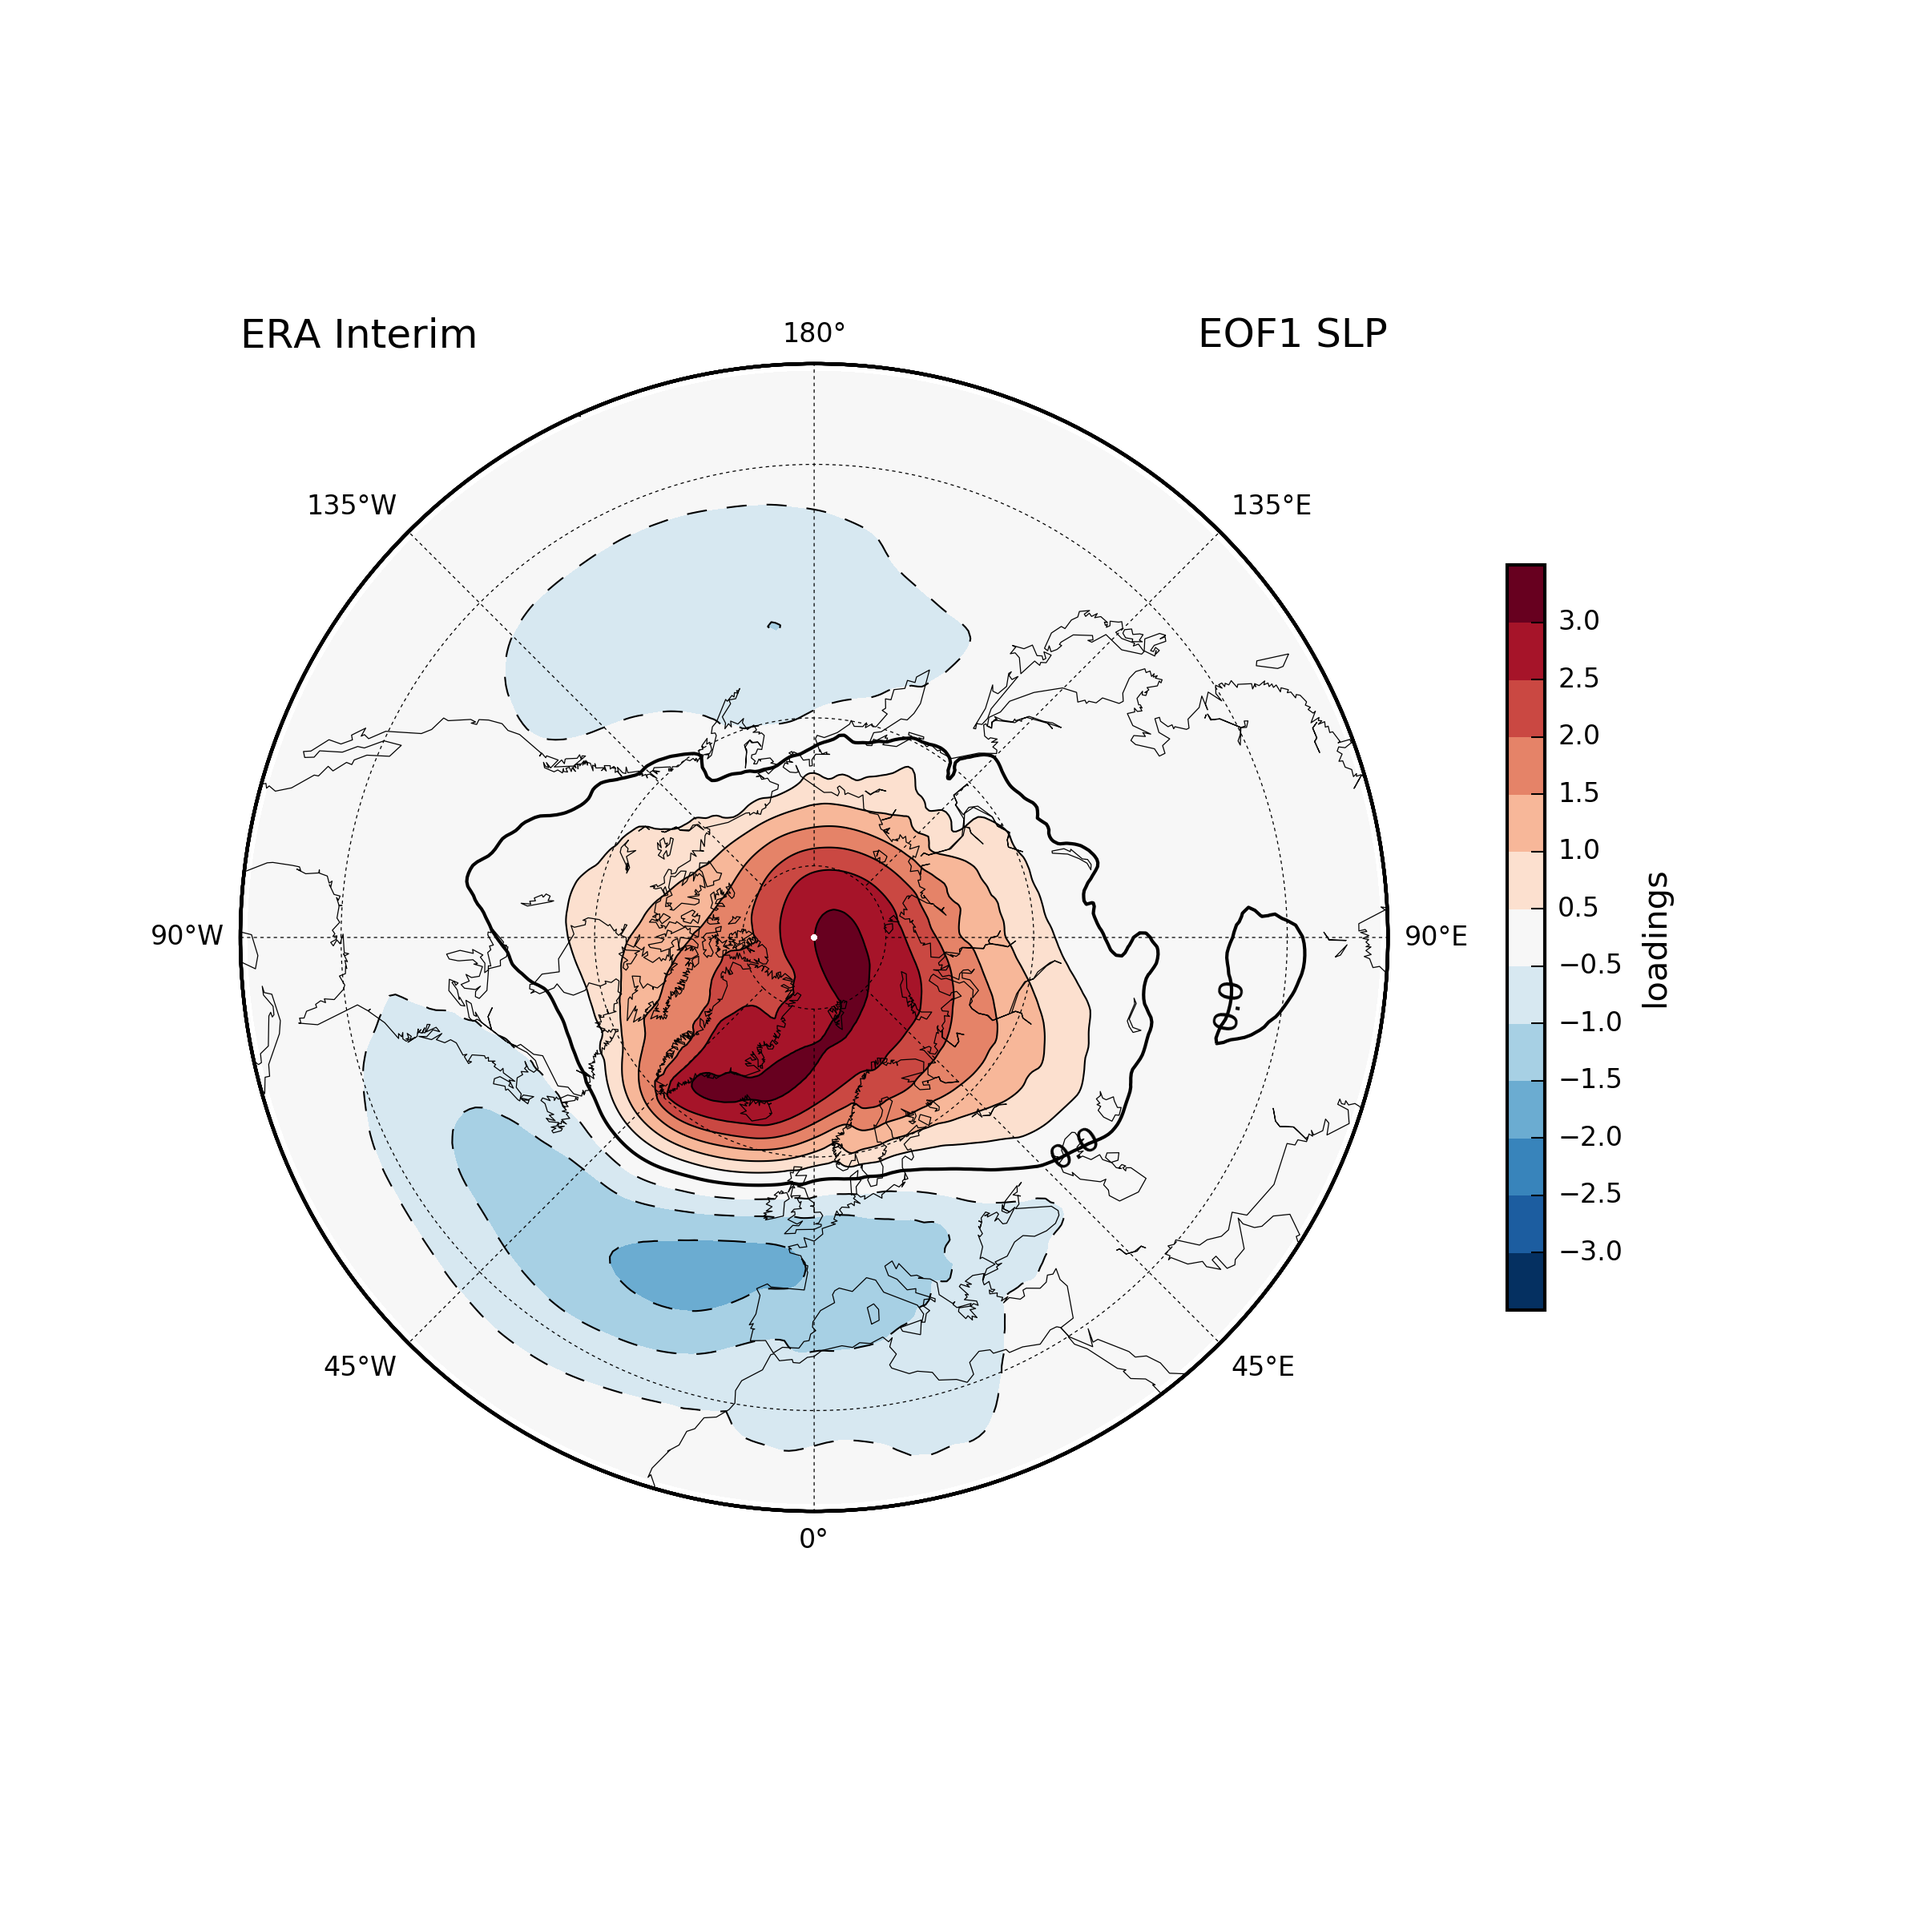
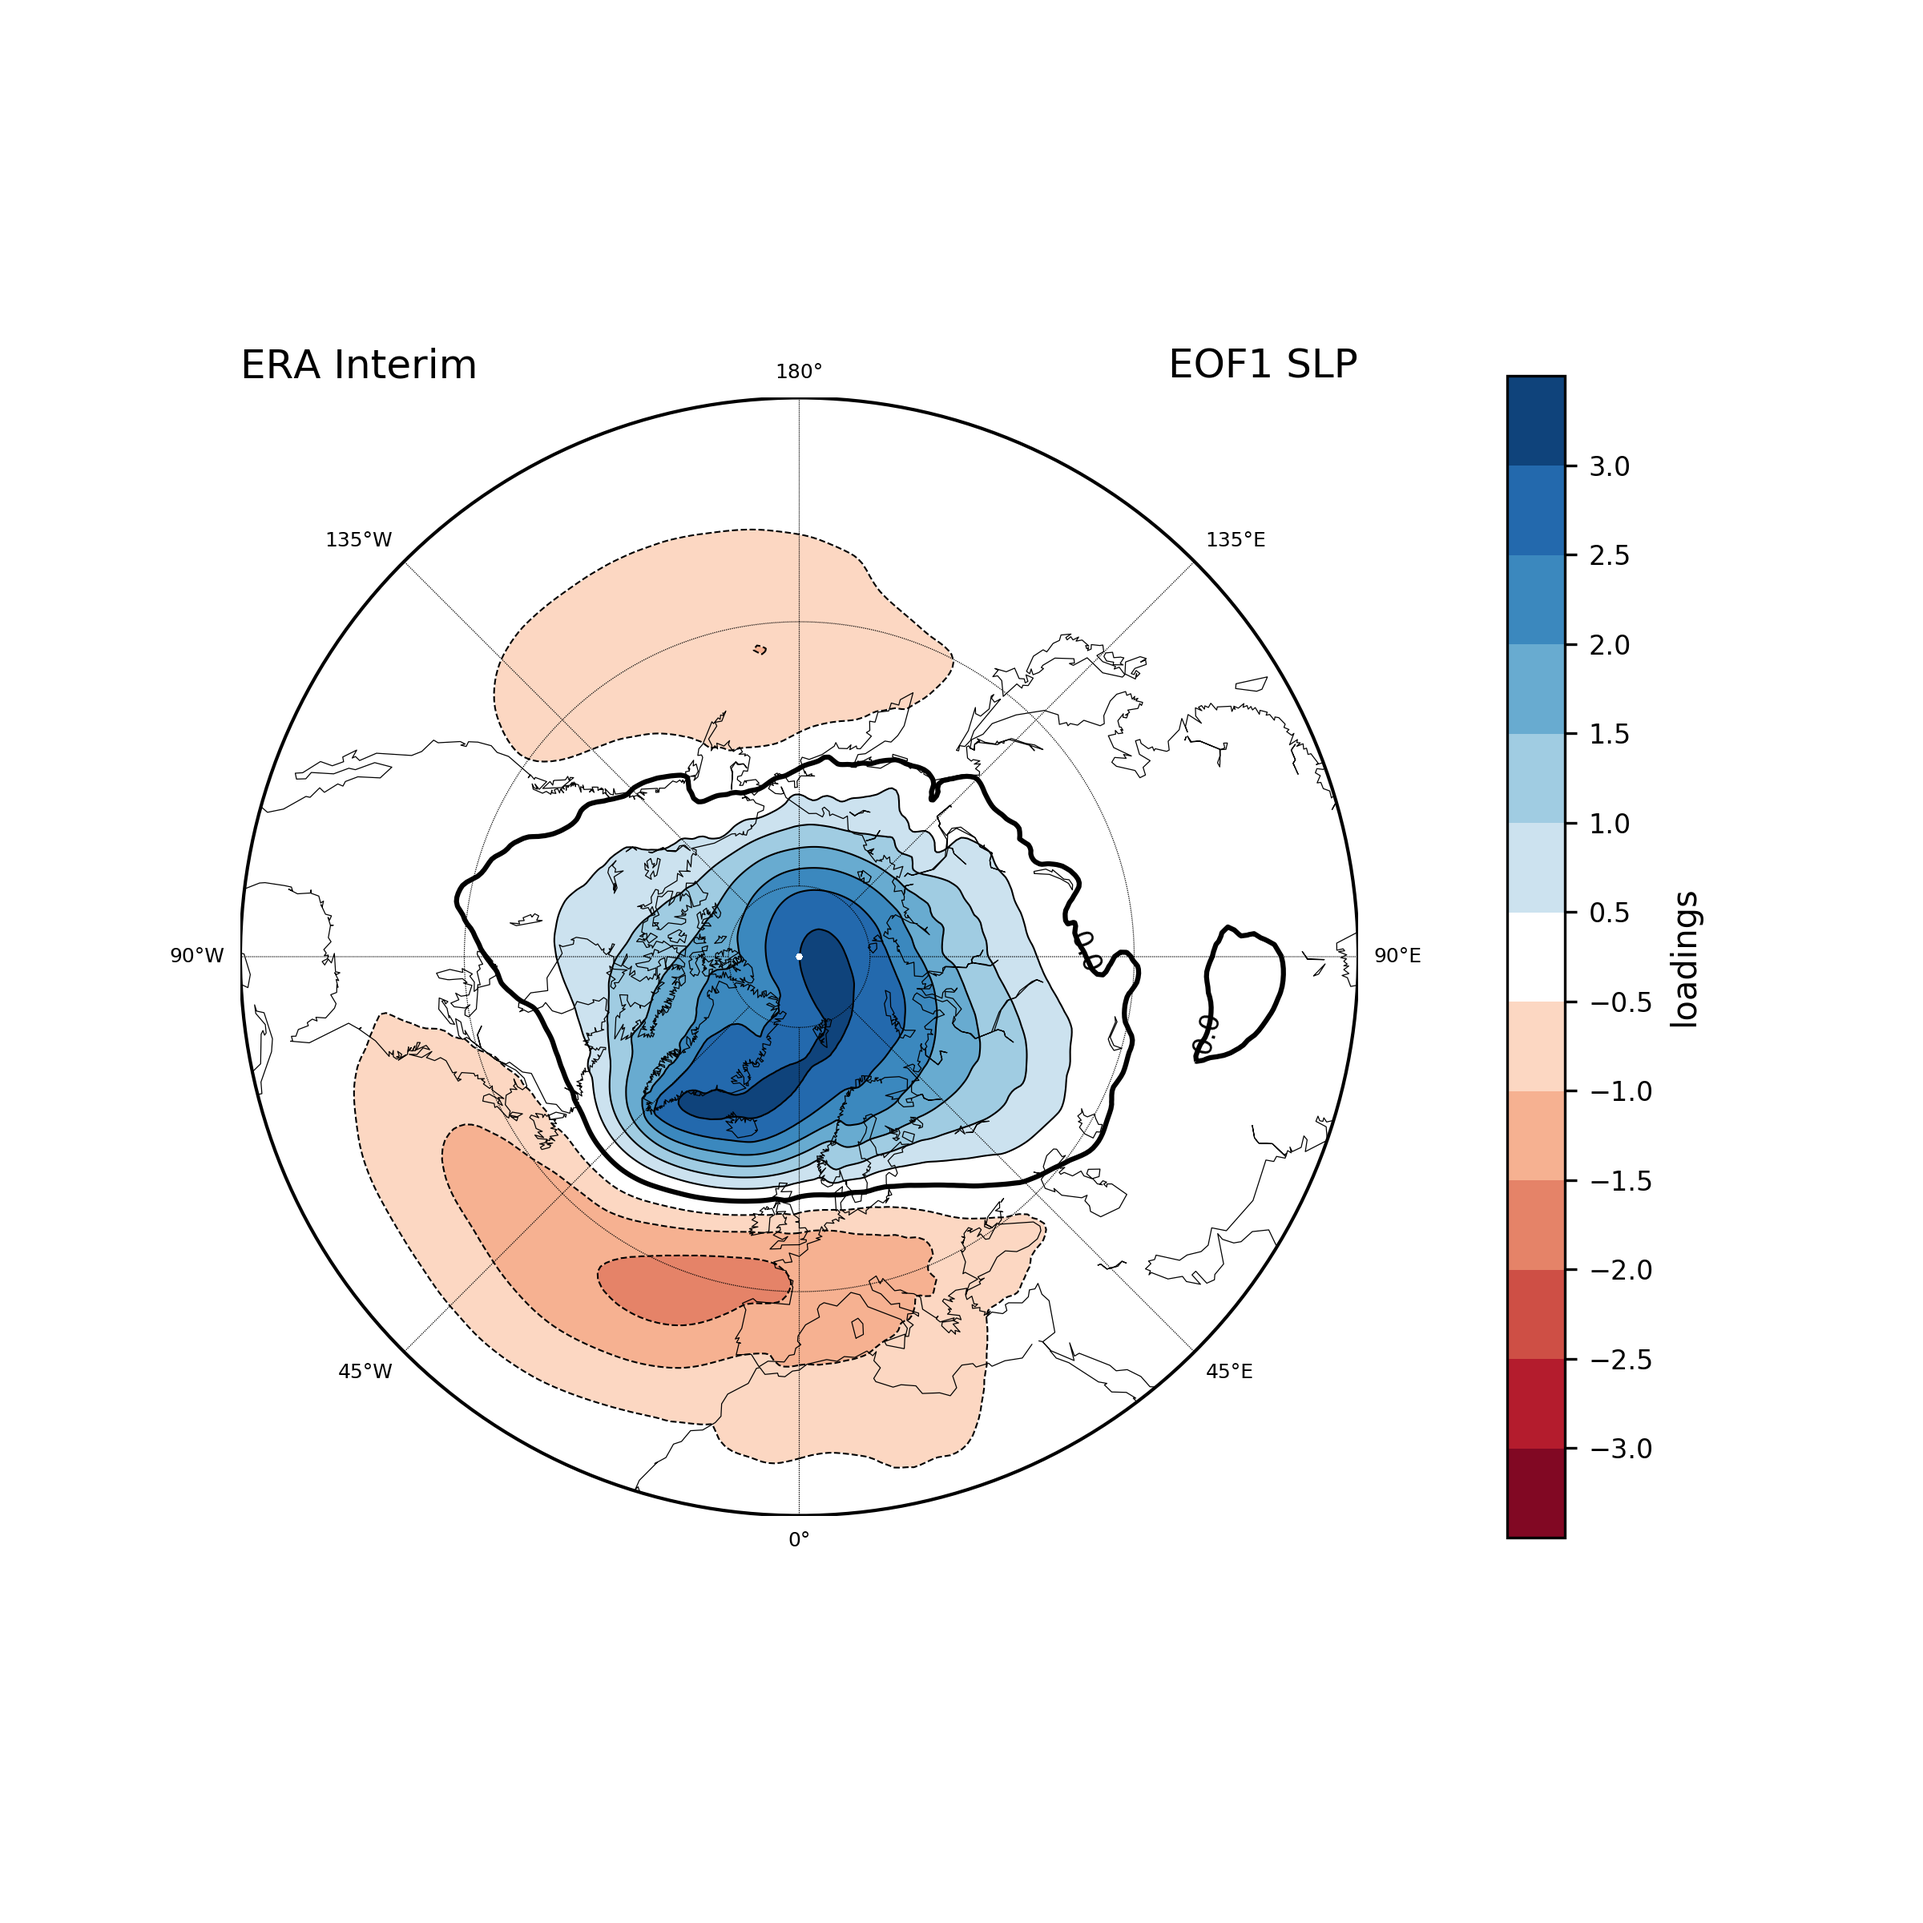
ex2

diff --git a/polarplots.py b/polarplots.py
@@ -272,7 +272,7 @@ def polaranom(lat,lon,var,vmin=0,vmax=0,inc=0,lat0=0,frame=0,rtitle='',ltitle=''
         cb.ax.tick_params(labelsize=cbfontsize)
     if zeroline==1:
         m2=plt.contour(x,y,var_c,levels=[0],colors='k')
-        plt.clabel(m2, m2.levels, inline=False, fontsize=fontsize, fmt='%.1f')
+        plt.clabel(m2, m2.levels, inline=False, fontsize=cbfontsize, fmt='%.1f')
     if frame==1:
         draw_round_frame(m)
     if contours==1:

diff --git a/README.md b/README.md
@@ -47,8 +47,8 @@ myfig=pp.polaranom(mylat,mylon,myvar,
                    contours=1,zeroline=1,lat0=20,
                    rtitle='EOF1 SLP',
                    ltitle='ERA Interim',
-                   clabel='loadings'
-                   cmap='BuRd_r'
+                   clabel='loadings',
+                   cmap='RdBu',
                    )
 ```
 ![alt text](https://github.com/davidmnielsen/polarplots/blob/master/ex2.png "ex2.png")
